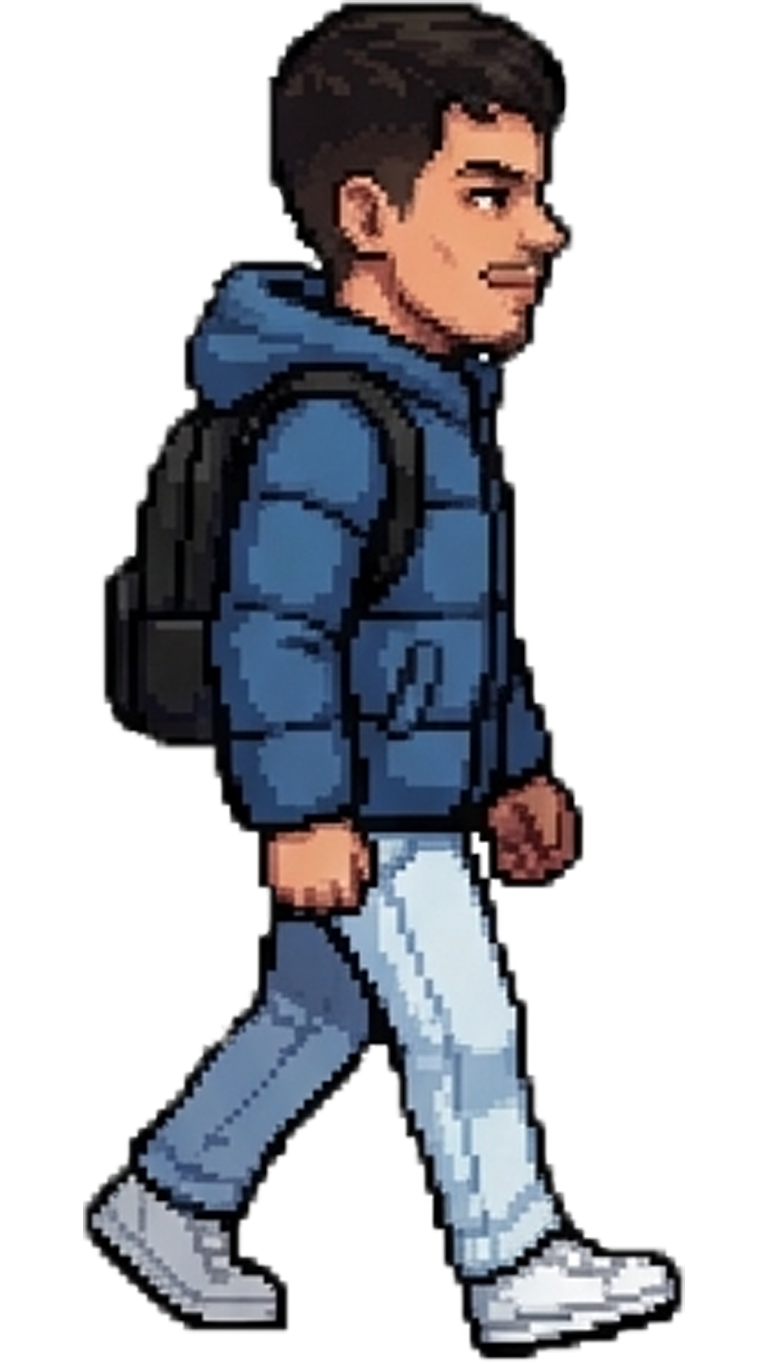
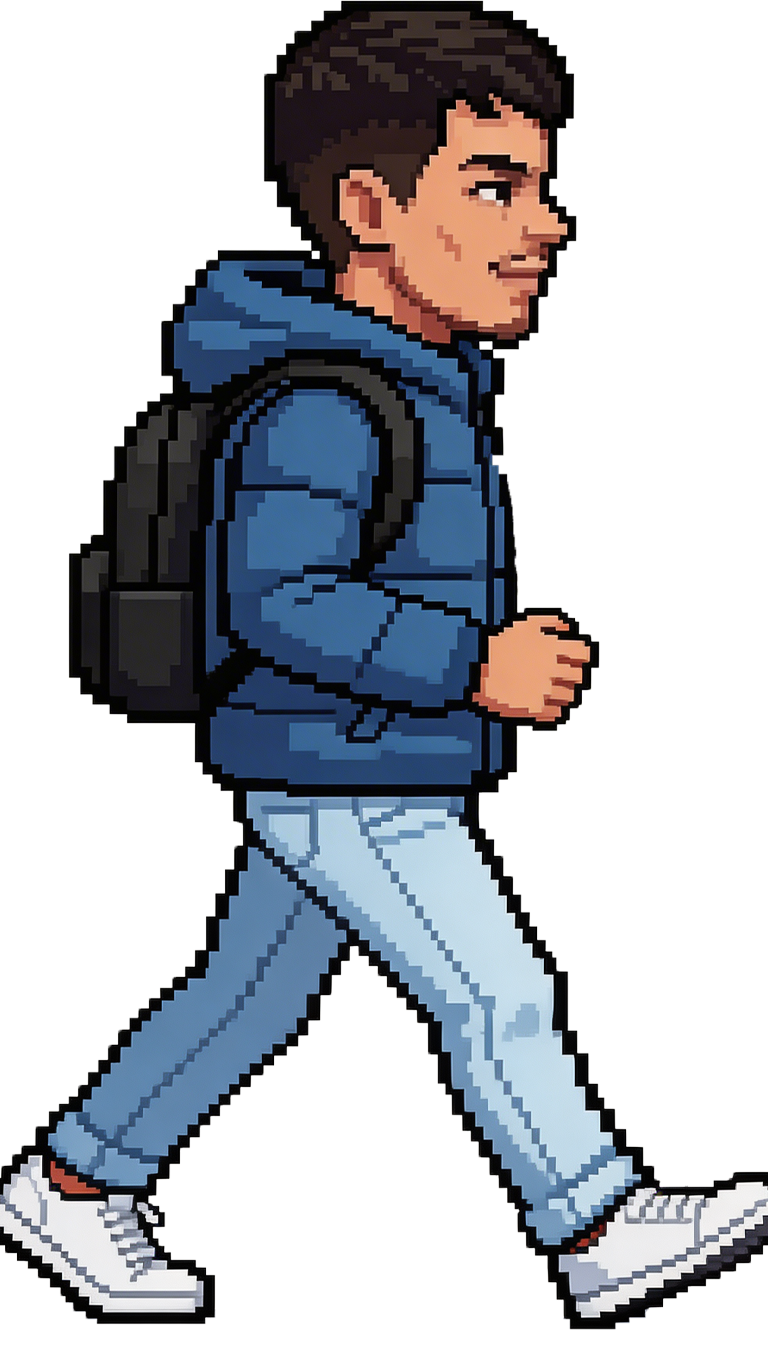
Movement changes and Sprite changes

diff --git a/src/lib/components/LevelGame.svelte b/src/lib/components/LevelGame.svelte
@@ -20,6 +20,7 @@
 	let levelComplete = false;
 	let walkFrame = 0;
 	let walkInterval = null;
+	const walkFrames = ['walking_pose1', 'standing_pose1', 'walking_pose2', 'standing_pose1'];
 
 	onMount(async () => {
 		PhaserLib = await import('phaser');
@@ -38,8 +39,8 @@
 		if (!scene?.player) return;
 
 		if (!walkInterval) {
-			walkFrame = walkFrame === 0 ? 1 : 0;
-			scene.player.setTexture(walkFrame === 0 ? 'standing_pose1' : 'walking_pose1');
+			walkFrame = (walkFrame + 1) % walkFrames.length;
+			scene.player.setTexture(walkFrames[walkFrame]);
 		}
 
 		if (walkInterval) return;
@@ -47,8 +48,8 @@
 		walkInterval = setInterval(() => {
 			if (!scene.player || levelComplete) return;
 
-			walkFrame = walkFrame === 0 ? 1 : 0;
-			scene.player.setTexture(walkFrame === 0 ? 'standing_pose1' : 'walking_pose1');
+			walkFrame = (walkFrame + 1) % walkFrames.length;
+			scene.player.setTexture(walkFrames[walkFrame]);
 		}, WALK_ANIMATION_SPEED);
 	}
 
@@ -109,6 +110,7 @@
 					this.load.image('sky', '/sky.png');
 					this.load.image('standing_pose1', '/charachters/standing_pose1.png');
 					this.load.image('walking_pose1', '/charachters/walking_pose1.png');
+					this.load.image('walking_pose2', '/charachters/walking_pose2.png');
 					this.load.image('jumping_pose1', '/charachters/jumping_pose1.png');
 					this.load.image('crouching_pose1', '/charachters/crouching_pose1.png');
 				},
@@ -216,6 +218,19 @@
 						left: Phaser.Input.Keyboard.KeyCodes.A,
 						right: Phaser.Input.Keyboard.KeyCodes.D
 					});
+
+					const onMoveKeyDown = () => {
+						if (this.playerState.isCrouching || !this.playerState.onGround) return;
+
+						walkFrame = (walkFrame + 1) % walkFrames.length;
+						this.player.setTexture(walkFrames[walkFrame]);
+						startWalkAnimation(this);
+					};
+
+					this.cursors.left.on('down', onMoveKeyDown);
+					this.cursors.right.on('down', onMoveKeyDown);
+					this.wasd.left.on('down', onMoveKeyDown);
+					this.wasd.right.on('down', onMoveKeyDown);
 				},
 				update(_, deltaMs) {
 					if (!this.player || !this.cursors || !this.wasd || levelComplete) return;
